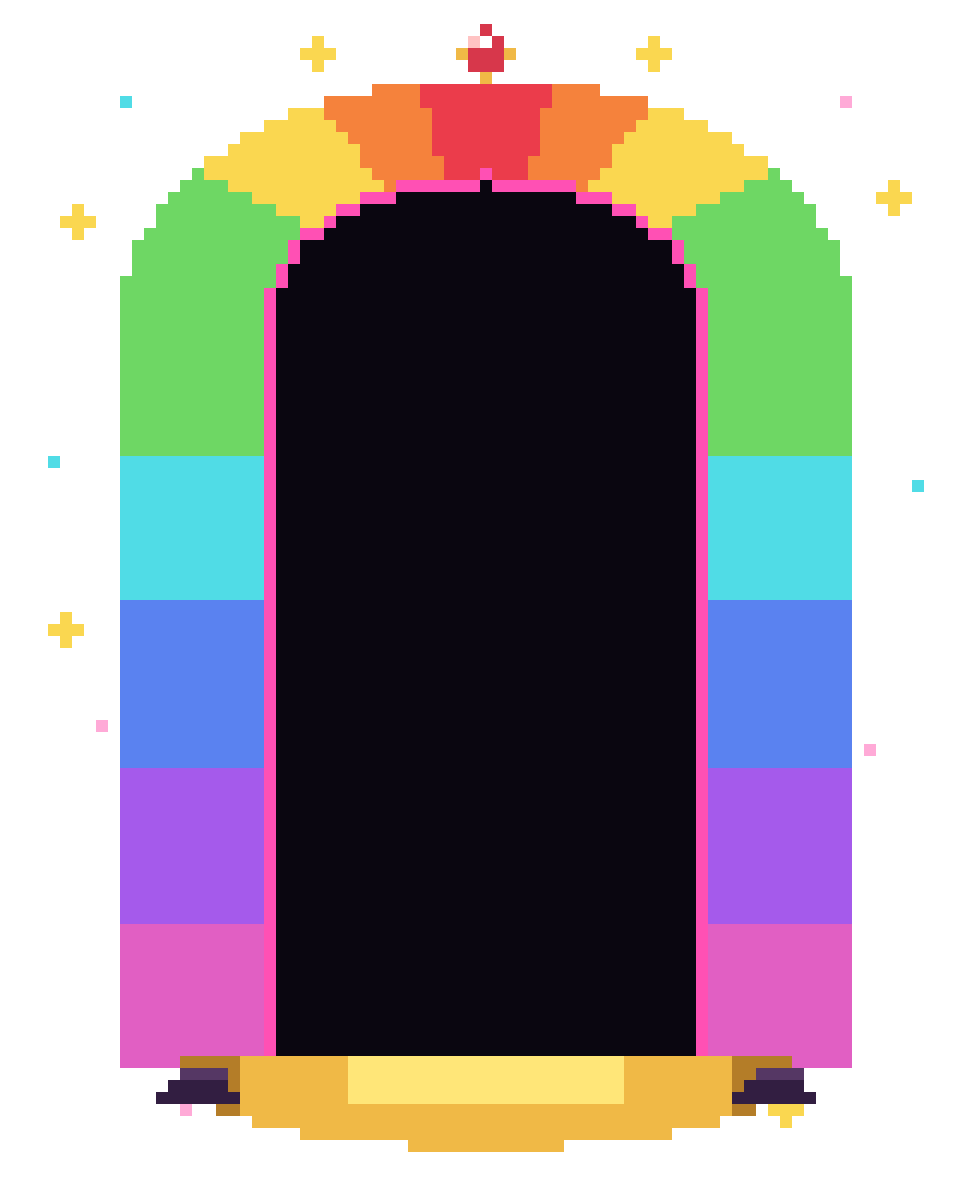
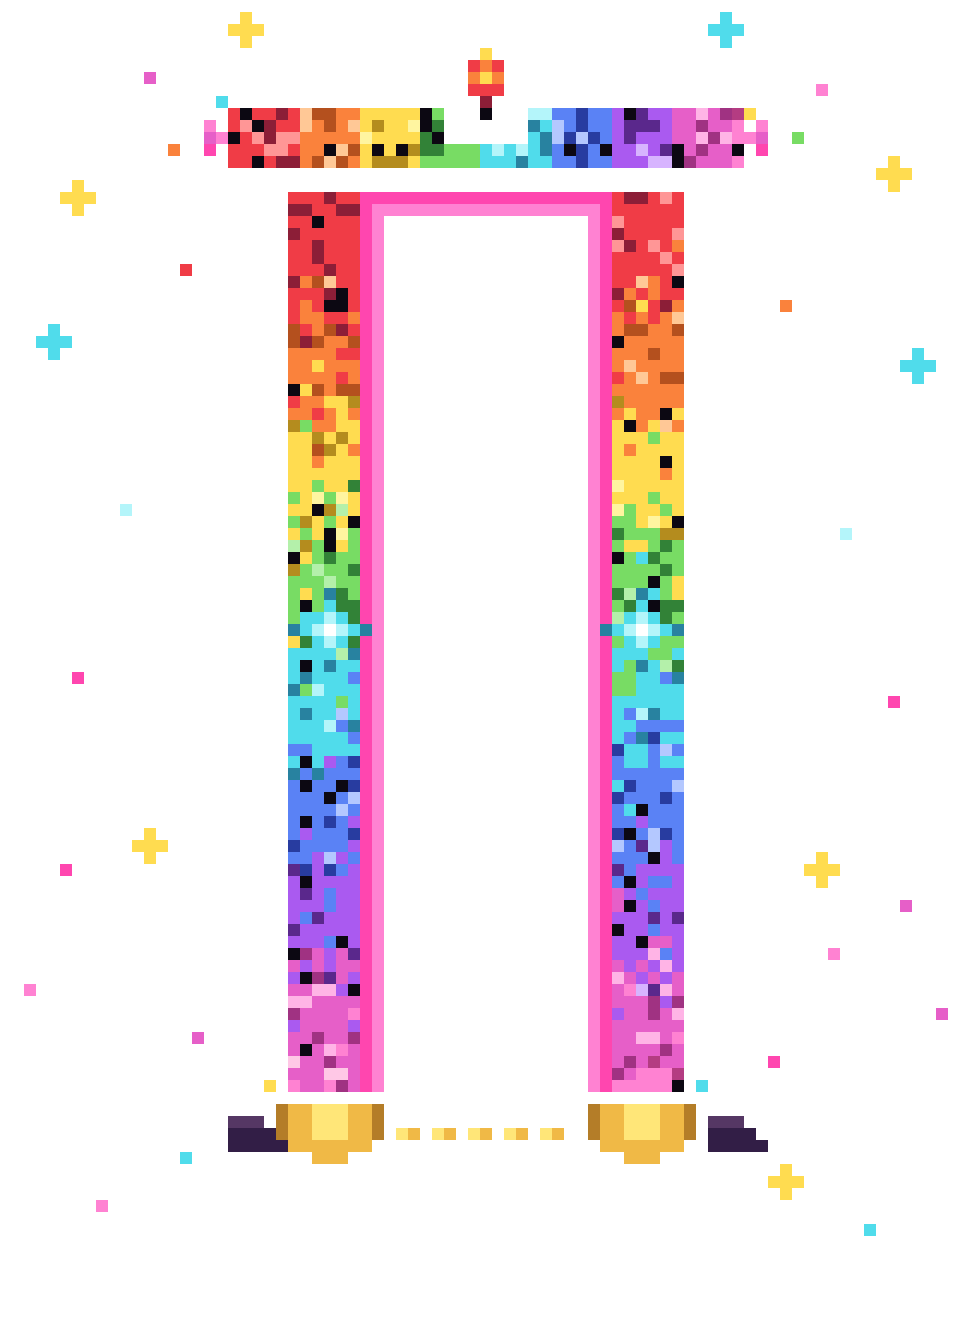
Rainbow portal frame v2 — dithered, rectangular, with crown bar + crystals
Reworked to match the reference: rectangular doorway with a separate
crown bar on top (wider than the frame, with knob ends and a flame
gem), dithered rainbow gradient down the legs with dark/pale speckles,
HOT_PINK neon rim around the opening, cyan diamond crystals embedded
mid-leg, two gold puddles at the foot of each leg with drip pattern
between, dark rocks at the outer base corners, and many scattered
sparkle stars in the void around the portal.

https://claude.ai/code/session_011J9yW9SkfterbQjTwaT62f

diff --git a/build_rainbow_portal.py b/build_rainbow_portal.py
@@ -1,40 +1,60 @@
 #!/usr/bin/env python3
 """Rainbow portal — single static frame matching the reference exactly.
 
-Flat-frontal rectangular doorway with a slightly curved top, rainbow
-gradient flowing around the frame perimeter (red crown → yellow/green
-sides → blue/purple legs), bright HOT-PINK neon rim around the empty
-black opening, small red gem on the crown, gold puddle and dark rocks
-at the base, scattered sparkles around the portal. Pixel art, no
-anti-aliasing.
-
-Logical 80x100 -> 12x NEAREST -> 960x1200, transparent background.
+Flat-frontal RECTANGULAR doorway with a separate crown bar at top, a
+DITHERED/textured rainbow gradient flowing down the legs (red crown →
+green/cyan middle → blue/purple/magenta feet), a HOT_PINK neon rim
+around the empty opening, a small flame-gem on the crown, cyan diamond
+crystals embedded mid-leg, gold puddles dripping at each foot, dark
+rocks at the base corners, and many scattered sparkle stars.
+Logical 80x110 -> 12x NEAREST -> 960x1320, transparent background.
 """
-import math, os
+import os, random
 from PIL import Image
 
-W, H, SCALE = 80, 100, 12
+W, H, SCALE = 80, 110, 12
+random.seed(42)
 
 # ── Palette ───────────────────────────────────────────
-BLACK      = (10, 6, 16)
-RED        = (235, 60, 75)
-ORANGE     = (245, 130, 60)
-YELLOW     = (250, 215, 80)
-GREEN      = (110, 215, 100)
-CYAN       = (80, 220, 230)
-BLUE       = (90, 130, 240)
-PURPLE     = (165, 90, 235)
-MAGENTA    = (225, 95, 195)
-HOT_PINK   = (255, 80, 180)
-SOFT_PINK  = (255, 170, 215)
-GOLD_HI    = (255, 230, 120)
-GOLD_MID   = (240, 185, 70)
-GOLD_DARK  = (180, 125, 40)
-ROCK_DARK  = (50, 30, 65)
-ROCK_MID   = (85, 55, 100)
-WHITE      = (255, 255, 255)
-GEM_RED    = (215, 55, 75)
-GEM_HI     = (255, 195, 195)
+BLACK         = (12, 8, 18)
+RED           = (240, 60, 70)
+ORANGE        = (250, 130, 60)
+YELLOW        = (255, 220, 80)
+GREEN         = (120, 220, 100)
+CYAN          = (80, 220, 235)
+BLUE          = (90, 130, 245)
+PURPLE        = (170, 90, 240)
+MAGENTA       = (230, 95, 200)
+PINK          = (255, 130, 210)
+HOT_PINK      = (255, 70, 175)
+SOFT_PINK     = (255, 170, 215)
+DARK_RED      = (140, 30, 55)
+DARK_ORANGE   = (180, 80, 30)
+DARK_YELLOW   = (180, 140, 30)
+DARK_GREEN    = (50, 130, 55)
+DARK_CYAN     = (40, 130, 160)
+DARK_BLUE     = (40, 60, 160)
+DARK_PURPLE   = (90, 40, 140)
+DARK_MAGENTA  = (160, 50, 130)
+DARK_PINK     = (180, 60, 130)
+PALE_RED      = (255, 150, 150)
+PALE_ORANGE   = (255, 200, 150)
+PALE_YELLOW   = (255, 245, 160)
+PALE_GREEN    = (180, 240, 170)
+PALE_CYAN     = (180, 245, 250)
+PALE_BLUE     = (180, 200, 255)
+PALE_PURPLE   = (215, 180, 255)
+PALE_PINK     = (255, 200, 230)
+GOLD_HI       = (255, 230, 120)
+GOLD_MID      = (240, 185, 70)
+GOLD_DARK     = (180, 125, 40)
+ROCK_DARK     = (50, 30, 70)
+ROCK_MID      = (85, 55, 100)
+WHITE         = (255, 255, 255)
+
+RAINBOW      = [RED, ORANGE, YELLOW, GREEN, CYAN, BLUE, PURPLE, MAGENTA, PINK]
+DARK_RAINBOW = [DARK_RED, DARK_ORANGE, DARK_YELLOW, DARK_GREEN, DARK_CYAN, DARK_BLUE, DARK_PURPLE, DARK_MAGENTA, DARK_PINK]
+PALE_RAINBOW = [PALE_RED, PALE_ORANGE, PALE_YELLOW, PALE_GREEN, PALE_CYAN, PALE_BLUE, PALE_PURPLE, (255,180,230), PALE_PINK]
 
 img = Image.new('RGBA', (W, H), (0, 0, 0, 0))
 PX = img.load()
@@ -48,128 +68,169 @@ def getc(x, y):
         return PX[x, y]
     return (0, 0, 0, 0)
 
-# ── Geometry: flat-frontal U-shape doorway ────────────
-CX = 40
-Y_OUTER_TOP = 6        # outer crown apex
-Y_INNER_TOP = 14       # inner crown apex
-Y_SPRING    = 26       # crown ends, straight legs begin
-Y_BOTTOM    = 88       # bottom of frame (legs end at floor level)
-OUTER_HW    = 30       # outer half-width
-INNER_HW    = 18       # inner half-width (opening)
+# ── Geometry: rectangular doorway with separate crown bar ─
+FRAME_TOP   = 16
+FRAME_BOT   = 90
+OUTER_L     = 24
+OUTER_R     = 56
+INNER_L     = 30
+INNER_R     = 50
+CROWN_Y     = 11           # vertical centre of the crown bar
+CROWN_HALF  = 2
+CROWN_L     = 19
+CROWN_R     = 61
+GEM_CX      = 40
+GEM_CY      = 6
+CRYSTAL_Y   = 52           # mid-leg cyan crystals
+PUDDLE_OFF  = 3            # vertical drop below FRAME_BOT for puddles
+LEFT_FOOT   = (OUTER_L + INNER_L) // 2     # 27
+RIGHT_FOOT  = (OUTER_R + INNER_R) // 2     # 53
 
-def outer_hw(y):
-    if y < Y_OUTER_TOP: return None
-    if y >= Y_SPRING:   return OUTER_HW
-    dy = Y_SPRING - y
-    b  = Y_SPRING - Y_OUTER_TOP
-    if dy > b: return None
-    return OUTER_HW * math.sqrt(1 - (dy / b) ** 2)
+# ── Fill the frame body with a dithered rainbow ───────
+def frame_color(x, y):
+    # Vertical rainbow on the leg sections, with per-pixel dithering.
+    t = (y - FRAME_TOP) / max(1, FRAME_BOT - FRAME_TOP)   # 0..1
+    base = t * 8                                          # 0..8 (across RAINBOW)
+    r = random.random()
+    if   r < 0.55: idx = base + (random.random() - 0.5) * 0.6     # base hue
+    elif r < 0.78: idx = base + (random.random() - 0.5) * 2.2     # nearby hue
+    elif r < 0.90:
+        # dark accent
+        i = max(0, min(8, int(base + (random.random() - 0.5))))
+        return DARK_RAINBOW[i]
+    elif r < 0.96:
+        # bright/pale accent
+        i = max(0, min(8, int(base + (random.random() - 0.5))))
+        return PALE_RAINBOW[i]
+    else:
+        return BLACK                                       # speckle wear
+    i = max(0, min(8, int(idx)))
+    return RAINBOW[i]
 
-def inner_hw(y):
-    if y < Y_INNER_TOP: return None
-    if y >= Y_SPRING:   return INNER_HW
-    dy = Y_SPRING - y
-    b  = Y_SPRING - Y_INNER_TOP
-    if dy > b: return None
-    return INNER_HW * math.sqrt(1 - (dy / b) ** 2)
-
-def rainbow_at(x, y, dx):
-    """Rainbow colour for a frame pixel, picked by position around the arch."""
-    if y < Y_SPRING:
-        # Crown: angle from the top apex (CX, Y_SPRING)
-        ang = math.atan2(Y_SPRING - y, dx)              # 0..π (right=0, top=π/2, left=π)
-        phi = abs(ang - math.pi / 2) / (math.pi / 2)     # 0 at top → 1 at sides
-        if phi < 0.18: return RED
-        if phi < 0.42: return ORANGE
-        if phi < 0.70: return YELLOW
-        return GREEN
-    # Legs: hue from y position
-    t = (y - Y_SPRING) / (Y_BOTTOM - Y_SPRING)           # 0..1
-    if t < 0.18: return GREEN
-    if t < 0.38: return CYAN
-    if t < 0.60: return BLUE
-    if t < 0.82: return PURPLE
-    return MAGENTA
-
-# ── Fill the frame (rainbow) + black opening ──────────
-for y in range(Y_OUTER_TOP, Y_BOTTOM + 1):
-    ohw = outer_hw(y)
-    if ohw is None: continue
-    ihw = inner_hw(y)
-    iohw = int(round(ohw))
-    iihw = int(round(ihw)) if ihw is not None else None
-    for dx in range(-iohw, iohw + 1):
-        x = CX + dx
-        if iihw is not None and -iihw <= dx <= iihw:
-            put(x, y, BLACK)                             # opening
-        else:
-            put(x, y, rainbow_at(x, y, dx))              # rainbow frame
+for y in range(FRAME_TOP, FRAME_BOT + 1):
+    for x in range(OUTER_L, OUTER_R + 1):
+        if INNER_L < x < INNER_R:                          # leave the opening empty
+            continue
+        put(x, y, frame_color(x, y))
 
 # ── Hot-pink neon rim around the entire opening ───────
-for y in range(Y_INNER_TOP, Y_BOTTOM + 1):
-    ihw = inner_hw(y)
-    if ihw is None: continue
-    iihw = int(round(ihw))
-    # vertical edges of the opening (innermost black column gets pink)
-    for dx in (-iihw, iihw):
-        x = CX + dx
-        if getc(x, y)[:3] == BLACK:
-            put(x, y, HOT_PINK)
-    # arched top of opening: any black pixel with rainbow above it
-    if y < Y_SPRING + 2:
-        for dx in range(-iihw, iihw + 1):
-            x = CX + dx
-            if getc(x, y)[:3] == BLACK and getc(x, y - 1)[3] == 255 \
-               and getc(x, y - 1)[:3] != BLACK and getc(x, y - 1)[:3] != HOT_PINK:
-                put(x, y, HOT_PINK)
+for y in range(FRAME_TOP, FRAME_BOT + 1):
+    put(INNER_L, y, HOT_PINK)
+    put(INNER_R, y, HOT_PINK)
+for x in range(INNER_L, INNER_R + 1):
+    put(x, FRAME_TOP, HOT_PINK)
+# soft pink secondary glow line, one pixel inside
+for y in range(FRAME_TOP + 1, FRAME_BOT + 1):
+    put(INNER_L + 1, y, PINK)
+    put(INNER_R - 1, y, PINK)
+for x in range(INNER_L + 1, INNER_R):
+    put(x, FRAME_TOP + 1, PINK)
 
-# ── Red gem on the crown ──────────────────────────────
-gem_cx, gem_cy, gem_r = CX, 4, 2
-for dy in range(-gem_r, gem_r + 1):
-    for dx in range(-gem_r, gem_r + 1):
-        if dx * dx + dy * dy <= gem_r * gem_r:
-            put(gem_cx + dx, gem_cy + dy, GEM_RED)
-put(gem_cx - 1, gem_cy - 1, GEM_HI)
-put(gem_cx,     gem_cy - 1, WHITE)
-put(gem_cx + 2, gem_cy,     GOLD_MID)
-put(gem_cx - 2, gem_cy,     GOLD_MID)
-put(gem_cx,     gem_cy + 2, GOLD_MID)
-
-# ── Gold puddle pooling at the base ───────────────────
-puddle_cy = Y_BOTTOM + 1
-puddle_w, puddle_h = 26, 5
-for dy in range(-1, puddle_h + 2):
-    for dx in range(-puddle_w, puddle_w + 1):
-        ndx = dx / puddle_w
-        ndy = (dy + 0.5) / puddle_h
-        if ndx * ndx + ndy * ndy * 0.55 > 1:
+# ── Crown bar on top (wider than the frame, with knob ends) ─
+for y in range(CROWN_Y - CROWN_HALF, CROWN_Y + CROWN_HALF + 1):
+    for x in range(CROWN_L, CROWN_R + 1):
+        if abs(x - GEM_CX) <= 3 and y < CROWN_Y + 1:       # carve out gem area
             continue
-        col = GOLD_HI if (abs(ndx) < 0.45 and ndy < 0.6) else \
-              GOLD_MID if abs(ndx) < 0.78 else GOLD_DARK
-        put(CX + dx, puddle_cy + dy, col)
+        h_pos = (x - CROWN_L) / max(1, CROWN_R - CROWN_L)
+        i = int(h_pos * 8)
+        r = random.random()
+        if   r < 0.55: col = RAINBOW[max(0, min(8, i))]
+        elif r < 0.78: col = DARK_RAINBOW[max(0, min(8, i))]
+        elif r < 0.92: col = PALE_RAINBOW[max(0, min(8, i))]
+        else:          col = BLACK
+        put(x, y, col)
 
-# ── Dark rocks at the base corners ────────────────────
+# Decorative magenta knobs at the ends of the crown bar
+for kx in (CROWN_L - 2, CROWN_R + 2):
+    put(kx, CROWN_Y - 1, PINK)
+    put(kx, CROWN_Y,     MAGENTA)
+    put(kx, CROWN_Y + 1, HOT_PINK)
+    put(kx + (1 if kx == CROWN_L - 2 else -1), CROWN_Y, PINK)
+
+# ── Flame gem on the crown ────────────────────────────
+def draw_gem():
+    # small flame/teardrop shape, red/orange/yellow
+    put(GEM_CX,     GEM_CY - 2, YELLOW)
+    put(GEM_CX,     GEM_CY - 1, ORANGE)
+    put(GEM_CX - 1, GEM_CY - 1, RED)
+    put(GEM_CX + 1, GEM_CY - 1, RED)
+    put(GEM_CX - 1, GEM_CY,     ORANGE)
+    put(GEM_CX,     GEM_CY,     YELLOW)
+    put(GEM_CX + 1, GEM_CY,     ORANGE)
+    put(GEM_CX - 1, GEM_CY + 1, RED)
+    put(GEM_CX,     GEM_CY + 1, RED)
+    put(GEM_CX + 1, GEM_CY + 1, RED)
+    put(GEM_CX,     GEM_CY + 2, DARK_RED)
+    # tiny black silhouette inside (the reference shows a small figure)
+    put(GEM_CX,     GEM_CY + 3, BLACK)
+draw_gem()
+
+# ── Cyan diamond crystals embedded mid-leg ────────────
+def draw_crystal(cx, cy):
+    put(cx,     cy - 2, CYAN)
+    put(cx - 1, cy - 1, CYAN); put(cx,     cy - 1, PALE_CYAN); put(cx + 1, cy - 1, CYAN)
+    put(cx - 2, cy,     CYAN); put(cx - 1, cy,     PALE_CYAN); put(cx, cy, WHITE)
+    put(cx + 1, cy,     PALE_CYAN); put(cx + 2, cy,     CYAN)
+    put(cx - 1, cy + 1, CYAN); put(cx,     cy + 1, PALE_CYAN); put(cx + 1, cy + 1, CYAN)
+    put(cx,     cy + 2, CYAN)
+    # small dark outline points
+    put(cx,     cy - 3, DARK_CYAN)
+    put(cx,     cy + 3, DARK_CYAN)
+    put(cx - 3, cy,     DARK_CYAN)
+    put(cx + 3, cy,     DARK_CYAN)
+
+draw_crystal((OUTER_L + INNER_L) // 2, CRYSTAL_Y)
+draw_crystal((OUTER_R + INNER_R) // 2, CRYSTAL_Y)
+
+# ── Gold puddles dripping at the base of each leg ─────
+def puddle(cx, cy):
+    for dy in range(-1, 4):
+        for dx in range(-5, 6):
+            ndx = abs(dx) / 5
+            ndy = (dy + 0.5) / 3
+            if ndx * ndx + ndy * ndy * 0.7 > 1:
+                continue
+            col = GOLD_HI if (ndx < 0.4 and dy < 2) else \
+                  GOLD_MID if ndx < 0.75 else GOLD_DARK
+            put(cx + dx, cy + dy, col)
+
+puddle(LEFT_FOOT,  FRAME_BOT + PUDDLE_OFF)
+puddle(RIGHT_FOOT, FRAME_BOT + PUDDLE_OFF)
+
+# small drip pattern between the two puddles
+drip_y = FRAME_BOT + PUDDLE_OFF + 1
+for dx in range(LEFT_FOOT + 6, RIGHT_FOOT - 5, 3):
+    put(dx,     drip_y,     GOLD_HI)
+    put(dx + 1, drip_y,     GOLD_MID)
+
+# ── Dark rocks at the outer base corners ──────────────
 def rock(cx, cy):
-    pts = [(0,0),(1,0),(-1,0),(2,0),(-2,0),(3,1),(-3,1),
-           (0,1),(1,1),(-1,1),(2,1),(-2,1),(1,-1),(-1,-1),(0,-1),(2,-1)]
+    pts = [(0,0),(1,0),(-1,0),(2,0),(0,1),(1,1),(-1,1),(2,1),(3,1),
+           (1,-1),(0,-1),(-1,-1)]
     for dx, dy in pts:
         put(cx + dx, cy + dy, ROCK_MID if dy < 0 else ROCK_DARK)
-rock(CX - 24, Y_BOTTOM + 2)
-rock(CX + 24, Y_BOTTOM + 2)
+rock(OUTER_L - 4, FRAME_BOT + PUDDLE_OFF + 1)
+rock(OUTER_R + 4, FRAME_BOT + PUDDLE_OFF + 1)
 
-# ── Sparkles scattered around the portal ──────────────
+# ── Many sparkles scattered in the void around the portal ─
 sparkles = [
-    (6, 18, YELLOW), (74, 16, YELLOW), (4, 38, CYAN), (76, 40, CYAN),
-    (8, 60, SOFT_PINK), (72, 62, SOFT_PINK), (12, 80, WHITE), (68, 82, WHITE),
-    (26, 4, YELLOW), (54, 4, YELLOW), (32, 94, CYAN), (48, 94, CYAN),
-    (2, 30, WHITE), (78, 70, WHITE), (15, 92, SOFT_PINK), (65, 92, YELLOW),
-    (10, 8, CYAN), (70, 8, SOFT_PINK), (5, 52, YELLOW), (75, 50, WHITE),
+    # (x, y, colour, plus/star)
+    ( 6,16, YELLOW, 1), (74,14, YELLOW, 1), ( 4,28, CYAN, 1), (76,30, CYAN, 1),
+    (10,42, PALE_CYAN, 0), (70,44, PALE_CYAN, 0), ( 6,56, HOT_PINK, 0),
+    (74,58, HOT_PINK, 0), (12,70, YELLOW, 1), (68,72, YELLOW, 1),
+    ( 2,82, PINK, 0), (78,84, MAGENTA, 0), (20, 2, YELLOW, 1), (60, 2, CYAN, 1),
+    (12, 6, MAGENTA, 0), (68, 7, PINK, 0), (15,96, CYAN, 0), (65,98, YELLOW, 1),
+    ( 3,50, WHITE, 0), (77,68, WHITE, 0), ( 8,100, PINK, 0), (72,102, CYAN, 0),
+    (15,22, RED, 0), (65,25, ORANGE, 0), (16,86, MAGENTA, 0), (64,88, HOT_PINK, 0),
+    ( 9,38, WHITE, 0), (71,52, WHITE, 0), (14,12, ORANGE, 0), (66,11, GREEN, 0),
+    (18, 8, CYAN, 0), (62, 9, YELLOW, 0), (11,76, WHITE, 0), (69,79, PINK, 0),
+    (22,90, YELLOW, 0), (58,90, CYAN, 0), ( 5,72, HOT_PINK, 0), (75,75, MAGENTA, 0),
 ]
-for x, y, col in sparkles:
+for x, y, col, plus in sparkles:
     if getc(x, y)[3] != 0:
         continue
     put(x, y, col)
-    if col in (YELLOW, WHITE):                            # 4-point star
+    if plus:                                                # 4-point star
         if getc(x + 1, y)[3] == 0: put(x + 1, y, col)
         if getc(x - 1, y)[3] == 0: put(x - 1, y, col)
         if getc(x, y + 1)[3] == 0: put(x, y + 1, col)
